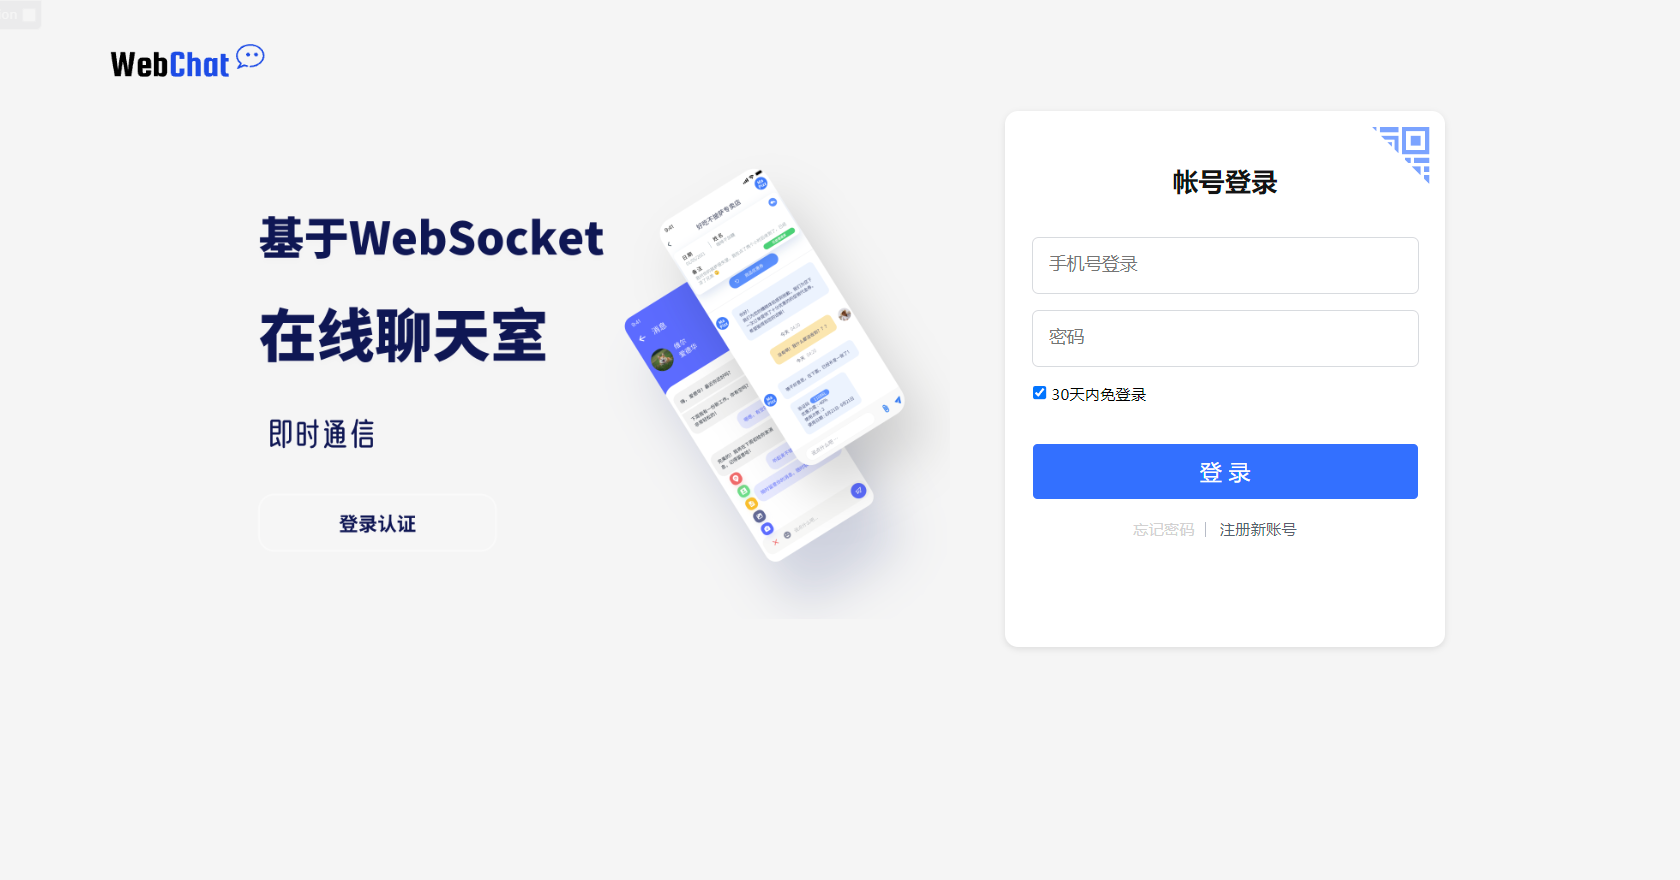
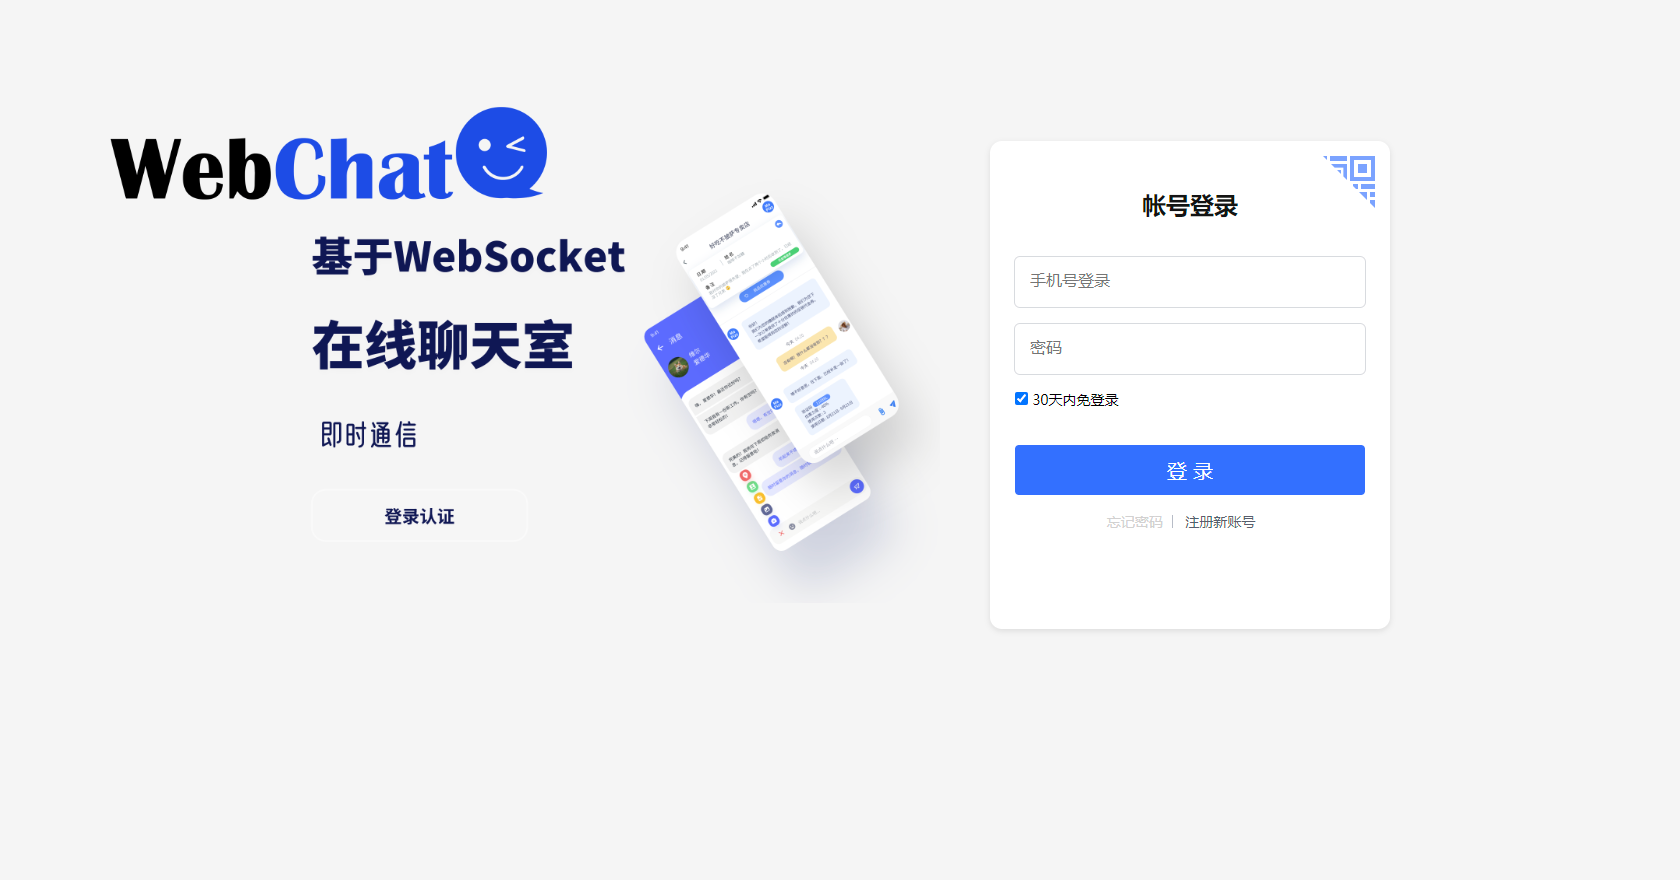
fix image and css

diff --git a/src/main/resources/static/css/client/chat.css b/src/main/resources/static/css/client/chat.css
@@ -492,7 +492,3 @@ body {
     border-left: 16px solid #dbf5ff;
     border-bottom: 8px solid transparent;
 }
-.logo {
-    height: 230px;
-    width: 460px;
-}
